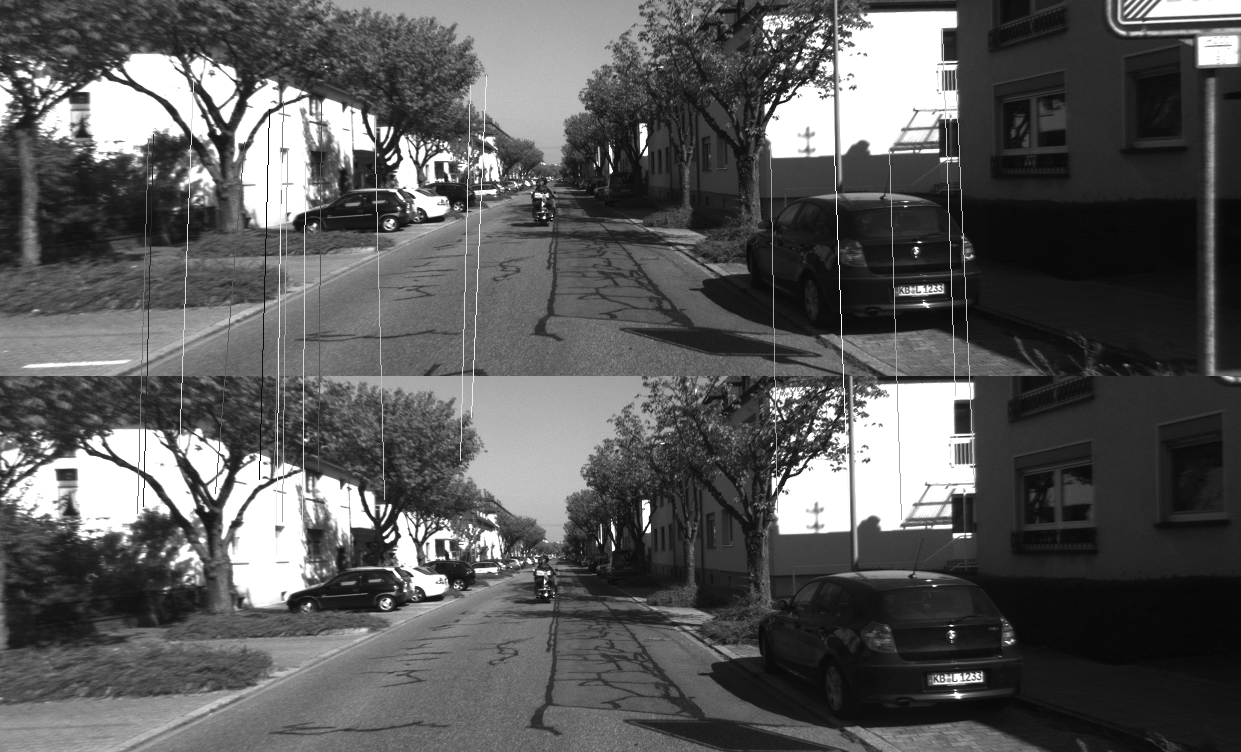
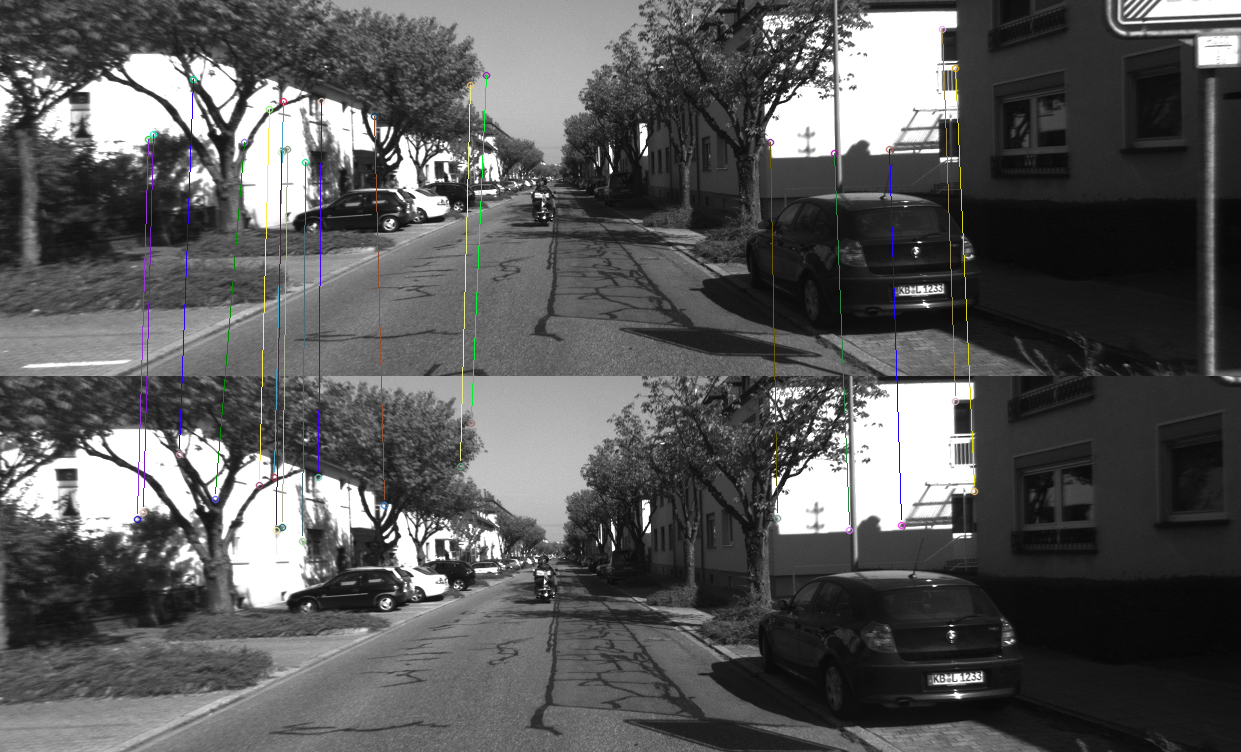
code cleaning

diff --git a/Code.py b/Code.py
@@ -4,7 +4,6 @@ import random
 from scipy.spatial import distance
 from scipy.optimize import least_squares
 from math import cos, sin
-import matplotlib.pyplot as plt
 
 
 # Parameters for the disparity map computation
@@ -309,7 +308,7 @@ cv2.imwrite('keypointsA.png', output)
 cv2.imwrite('keypointsB.png', output2)
 
 #Draw and save the matches that have been retained
-image = cv2.vconcat([Ja_L, Jb_L])
+image = cv2.vconcat([output, output2])
 for match in inlierMatches:
     Point_a = match[0].pt
     Point_b = match[1].pt
